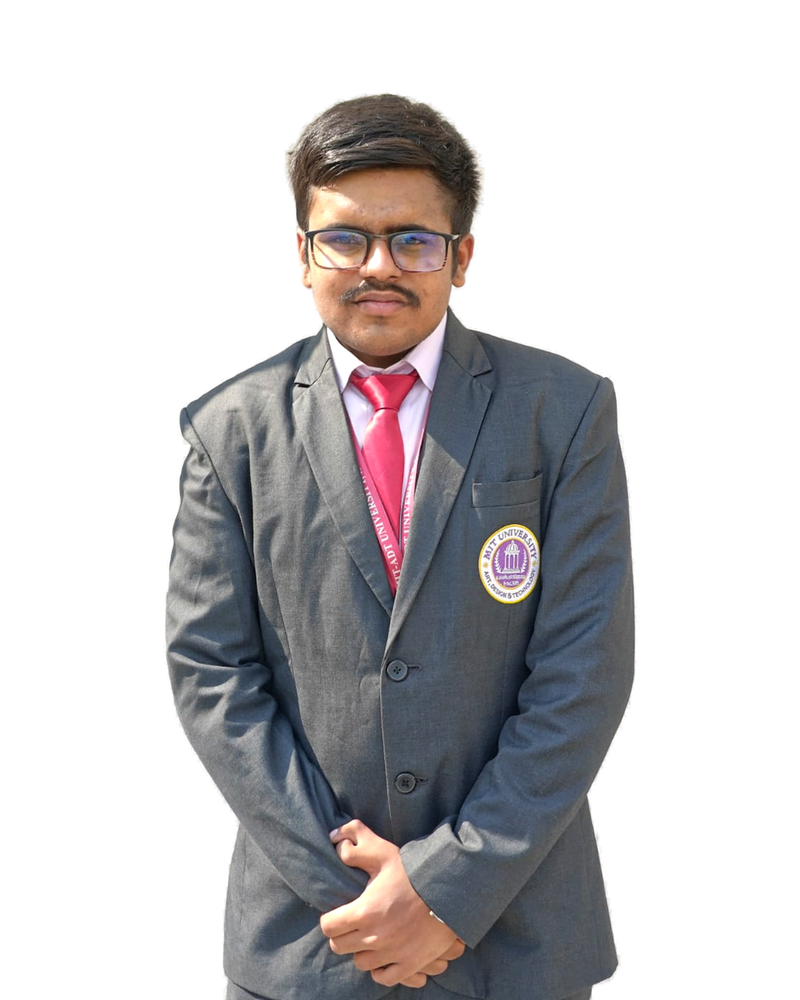
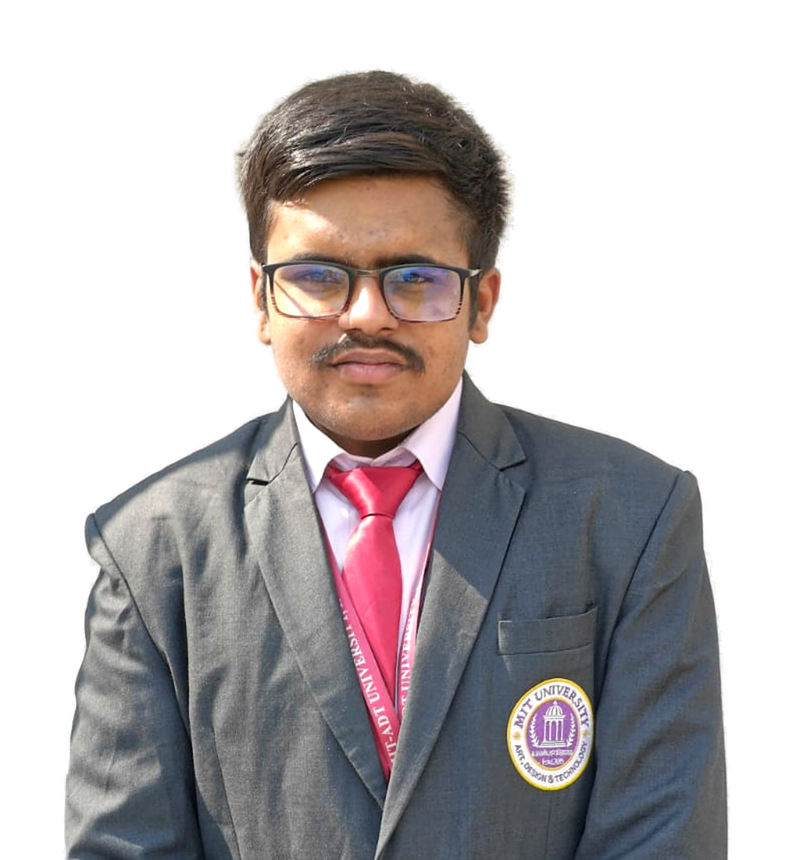
Crop profile photo to chest height, ending below the badge

diff --git a/index.html b/index.html
@@ -11,7 +11,7 @@
   <link rel="preconnect" href="https://fonts.googleapis.com">
   <link rel="preconnect" href="https://fonts.gstatic.com" crossorigin>
   <link href="https://fonts.googleapis.com/css2?family=Plus+Jakarta+Sans:wght@400;500;600;700;800&family=JetBrains+Mono:wght@500&display=swap" rel="stylesheet">
-  <link rel="stylesheet" href="css/style.css?v=2">
+  <link rel="stylesheet" href="css/style.css?v=3">
   <script>
     try { var t = localStorage.getItem('theme'); if (t) document.documentElement.dataset.theme = t; } catch (e) {}
   </script>
@@ -75,8 +75,8 @@
     <figure class="hero__photo reveal">
       <div class="photo-frame" id="photoFrame">
         <picture>
-          <source srcset="images/profile.webp" type="image/webp">
-          <img src="images/profile.png" alt="Sujal Jadhavar" width="800" height="1000" fetchpriority="high">
+          <source srcset="images/profile.webp?v=2" type="image/webp">
+          <img src="images/profile.png?v=2" alt="Sujal Jadhavar" width="800" height="860" fetchpriority="high">
         </picture>      </div>
       <figcaption>
         <span class="mono">SUJAL JADHAVAR</span>

diff --git a/css/style.css b/css/style.css
@@ -184,12 +184,12 @@ button { font: inherit; color: inherit; }
 .hero__cta { display: flex; flex-wrap: wrap; gap: 12px; margin-top: 30px; }
 
 .hero__photo { justify-self: end; width: 100%; max-width: 440px; }
-.photo-frame { position: relative; aspect-ratio: 4 / 5; isolation: isolate; }
+.photo-frame { position: relative; aspect-ratio: 40 / 43; isolation: isolate; }
 .photo-frame picture, .photo-frame img { display: block; width: 100%; height: 100%; }
 .photo-frame img {
   object-fit: contain; object-position: center bottom;
-  -webkit-mask-image: linear-gradient(to bottom, #000 78%, transparent 100%);
-          mask-image: linear-gradient(to bottom, #000 78%, transparent 100%);
+  -webkit-mask-image: linear-gradient(to bottom, #000 93%, transparent 100%);
+          mask-image: linear-gradient(to bottom, #000 93%, transparent 100%);
 }
 .hero__photo figcaption { display: flex; flex-direction: column; align-items: center; gap: 14px; margin-top: 18px; }
 
